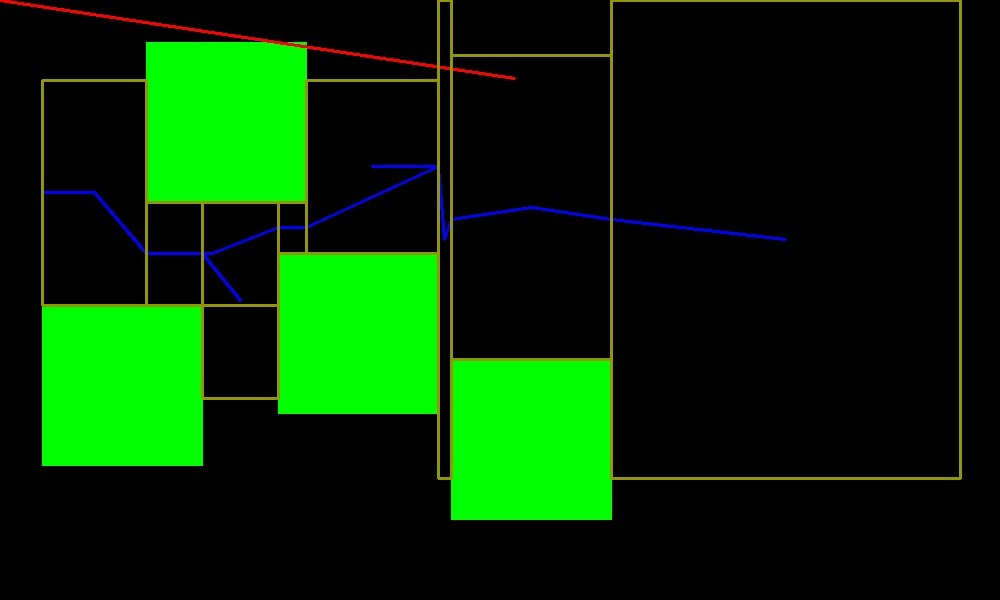
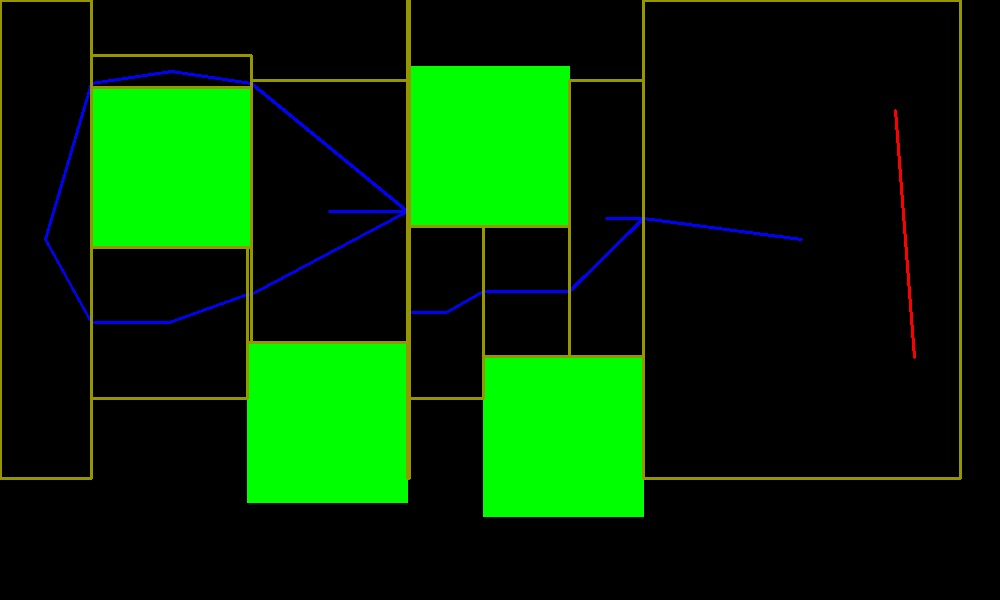
Commit base

diff --git a/Client/Robot/BotClient.py b/Client/Robot/BotClient.py
@@ -109,21 +109,14 @@ def get_ip_address(ifname):
         struct.pack('256s', ifname[:15])
     )[20:24])
 
-def getBotVoltage():
-    while(True):
-        if not botDispatcher.serialPortCommunicatorIsReadByManchester:
-            pass 
-# botDispatcher.botVoltage = spc.readConsensatorVoltage()
-        time.sleep(1)
-
 def sendBotVoltage():
     while(True):
-        socketIO.emit('sendVoltage', botDispatcher.botVoltage)
+        voltage = spc.getTensionCondensateur()
+        socketIO.emit('sendVoltage', voltage)
         print "send bot voltage"
         time.sleep(5)
 
 
-Thread(target=getBotVoltage).start()
 Thread(target=sendBotVoltage).start()
 
 

diff --git a/Client/BaseStation/WorldVision/worldVision.py b/Client/BaseStation/WorldVision/worldVision.py
@@ -16,7 +16,7 @@ class worldVision:
             self.camera = cv2.VideoCapture(1)
         else:
             self.camera = cv2.VideoCapture(0)
-        #self.camera.set(3, 3264)
+        self.camera.set(3, 3264)
         self.camera.set(4, 2448)
         self.worldImage = None
         ret, frame = self.camera.read()

diff --git a/Client/BaseStation/WorldVision/map.py b/Client/BaseStation/WorldVision/map.py
@@ -160,8 +160,8 @@ class Map:
         cornerList = []
         minX = 0
         maxX = 960
-        minY = 109
-        maxY = 597
+        minY = 92
+        maxY = 580
 
         newFoundLimit = Square("limit", np.array([[[minX,minY + 5]],[[minX,maxY - 5]],[[maxX, maxY - 5]],[[maxX,minY + 5]]], dtype=np.int32))
 
